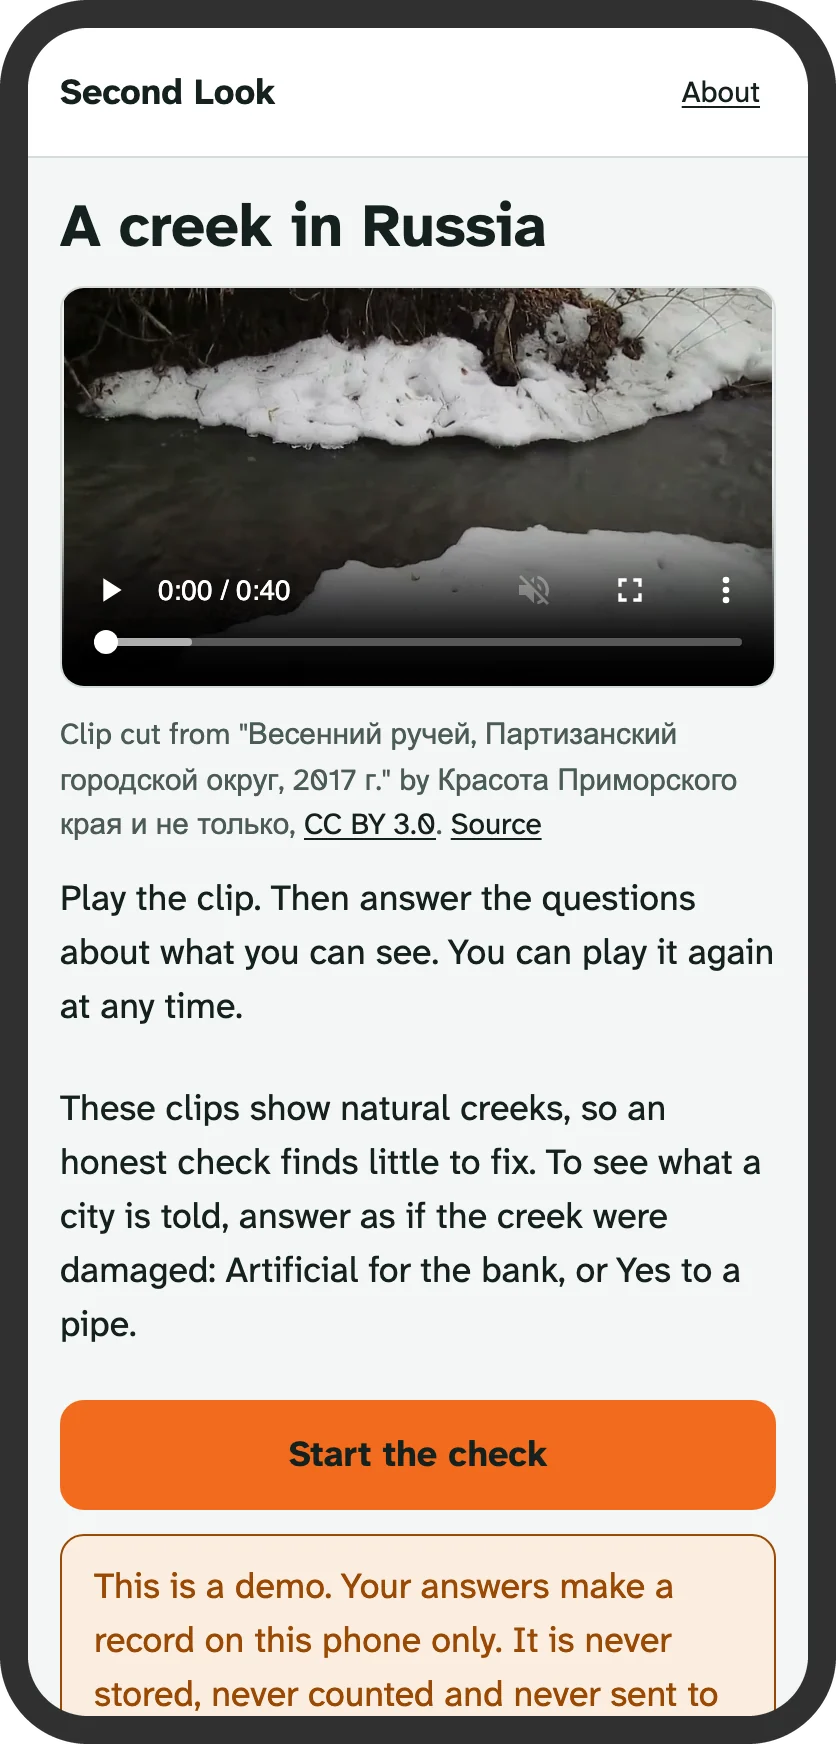
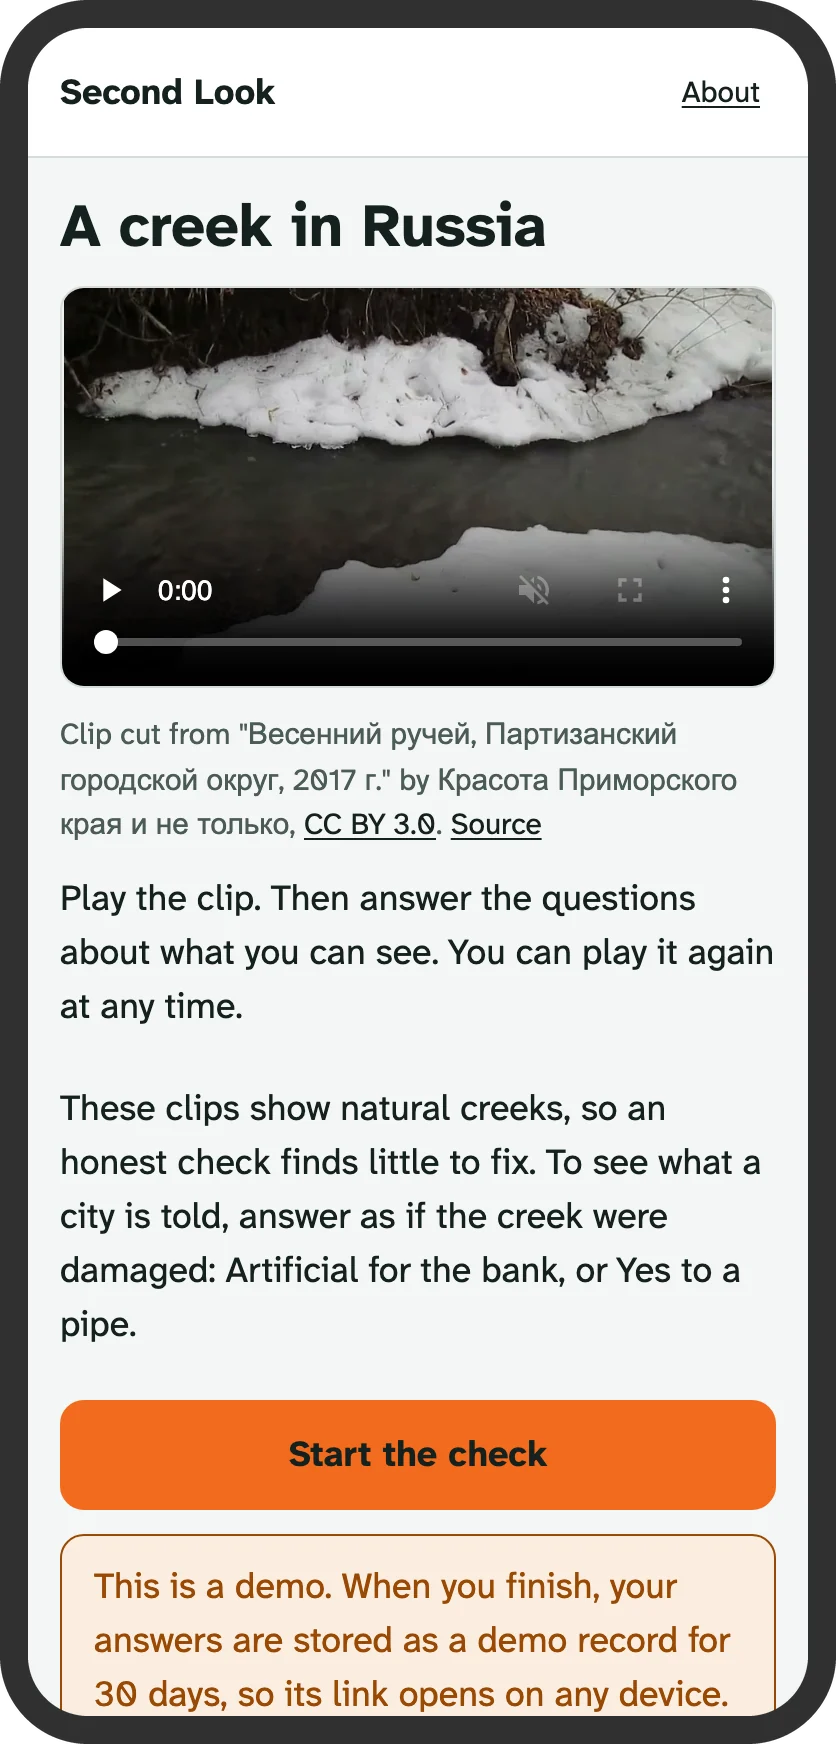
Screens captured again from the live site after the judge walk fixes

Changed region(s): [[0.0933, 0.8979, 0.8708, 0.9908], [0.1555, 0.3406, 0.2177, 0.3716], [0.311, 0.3096, 0.3421, 0.3406]]

diff --git a/docs/screens/README.md b/docs/screens/README.md
@@ -19,7 +19,7 @@ The phone screens of Second Look, in one drawn frame, captured by `make screens`
 <td align="center"><img src="walks.webp" width="200" alt="Check a creek from your desk: one short clip of a creek for each country."><br>Walks<br><code>/walk</code></td>
 <td align="center"><img src="walk.webp" width="200" alt="A walk: the clip of a creek, with its credit, and a button to start the check."><br>A walk<br><code>/walk/v02</code></td>
 <td align="center"><img src="walk-in-progress.webp" width="200" alt="A walk in progress: a question about the creek in the clip, with a progress count."><br>A walk in progress<br><code>/walk/v02</code></td>
-<td align="center"><img src="walk-record.webp" width="200" alt="The record from the walk, made on the phone and never sent, with a line saying every link inside it checks out."><br>The walk record<br><code>/walk/v02</code></td>
+<td align="center"><img src="walk-record.webp" width="200" alt="The record from the walk, tagged as a demo and never counted, with a line saying every link inside it checks out."><br>The walk record<br><code>/walk/v02</code></td>
 </tr>
 <tr>
 <td align="center"><img src="walk-city.webp" width="200" alt="The walk seen as a city would see it, after answering Artificial for the bank: what this demo creek needs, in OneAquaHealth's own measures, each with its source."><br>The walk as a city sees it, after answering Artificial for the bank<br><code>/city?walk=v02</code></td>

diff --git a/README.md b/README.md
@@ -99,7 +99,7 @@ There are <!--v:results/screens.json#/screen_count-->32<!--/v--> phone screens a
 <td align="center"><img src="docs/screens/walk.webp" width="200" alt="A walk: the clip of a creek, with its credit, and a button to start the check."><br>A walk<br><code>/walk/v02</code></td>
 </tr>
 <tr>
-<td align="center"><img src="docs/screens/walk-record.webp" width="200" alt="The record from the walk, made on the phone and never sent, with a line saying every link inside it checks out."><br>The walk record<br><code>/walk/v02</code></td>
+<td align="center"><img src="docs/screens/walk-record.webp" width="200" alt="The record from the walk, tagged as a demo and never counted, with a line saying every link inside it checks out."><br>The walk record<br><code>/walk/v02</code></td>
 <td align="center"><img src="docs/screens/walk-city.webp" width="200" alt="The walk seen as a city would see it, after answering Artificial for the bank: what this demo creek needs, in OneAquaHealth's own measures, each with its source."><br>The walk as a city sees it, after answering Artificial for the bank<br><code>/city?walk=v02</code></td>
 </tr>
 </table>
